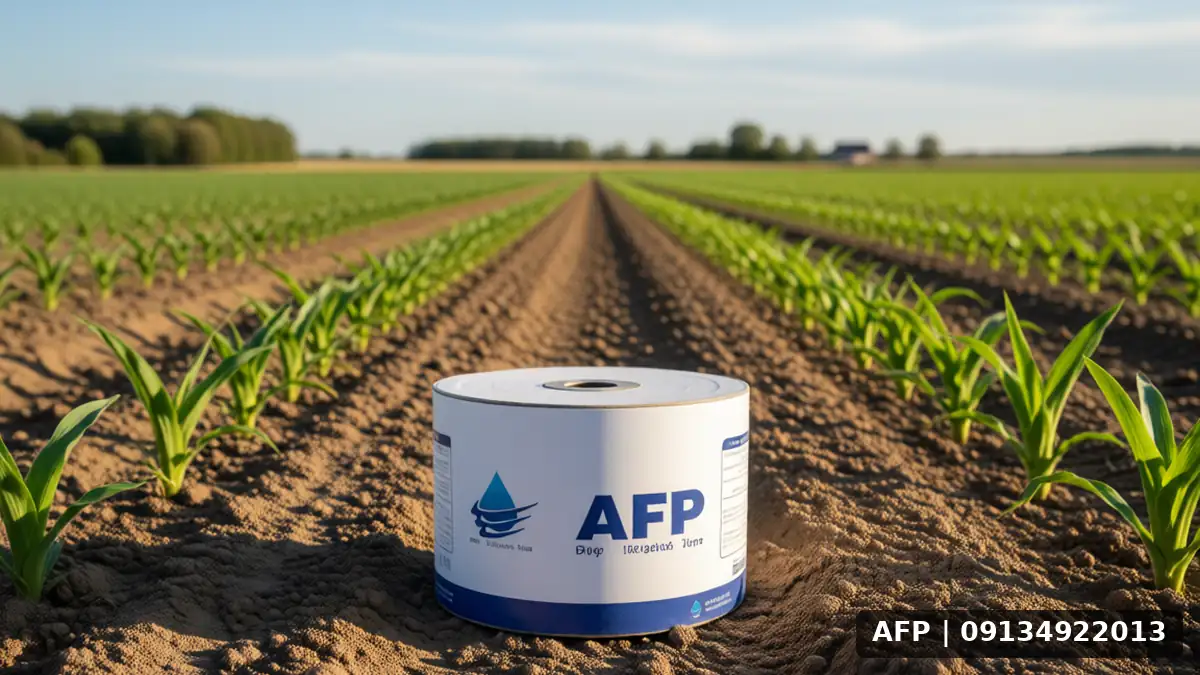
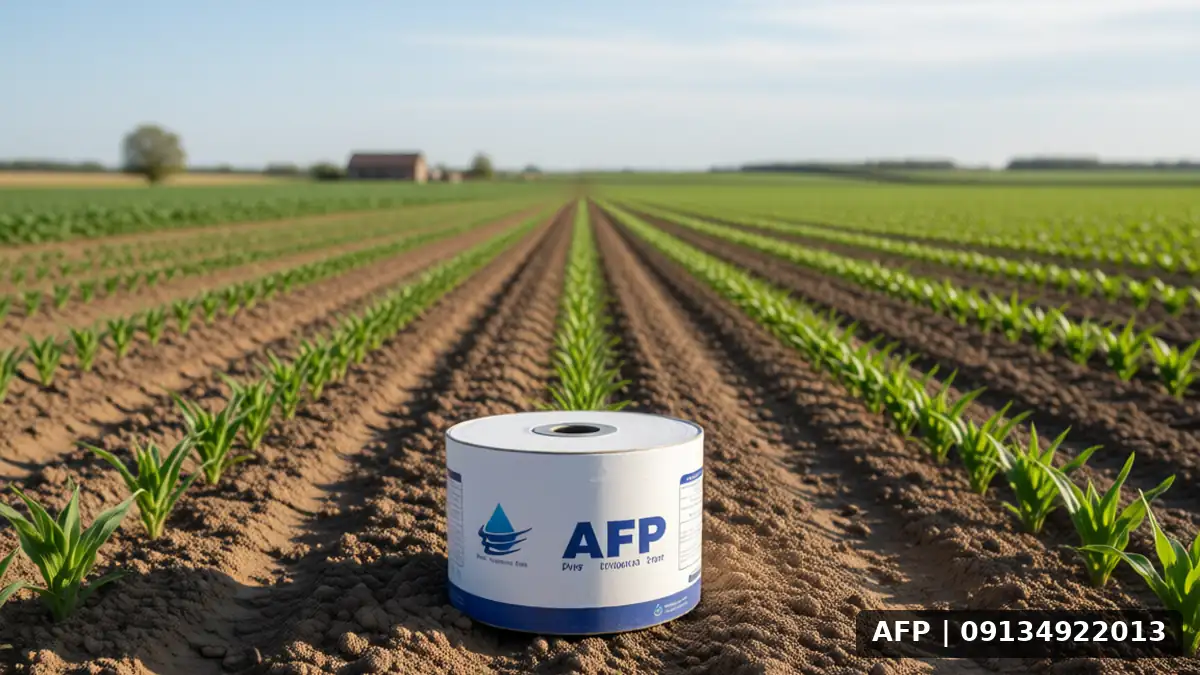
Rebuild article images under strict v10 semantic-composition policy [skip ci]

diff --git a/artifacts/article-content-queue/STATUS.md b/artifacts/article-content-queue/STATUS.md
@@ -4,7 +4,7 @@
 
 ## نمای کلی
 
-- آخرین بروزرسانی: `2026-09-26T23:01:49+00:00`
+- آخرین بروزرسانی: `2026-09-26T23:09:45+00:00`
 - وضعیت صف: **توقف موقت برای تکمیل ترجمههای عقبمانده** (`translations_pending`)
 - پیشرفت: **50 از 1148 (4.36٪)**
 - نمودار پیشرفت: `░░░░░░░░░░░░░░░░░░░░`
@@ -24,8 +24,8 @@
 - تعداد تصاویر هر مقاله: **3**
 - حداقل کلمات: **1050**
 - لینک داخلی مجاز: **4 تا ۷**
-- اندازه هر اجرا: **1 مقاله**
-- مدیر موازی: **1 مقاله / 3 تصویر همزمان**
+- اندازه هر اجرا: **2 مقاله**
+- مدیر موازی: **2 مقاله / 3 تصویر همزمان**
 - حداکثر تلاش هر مقاله: **4**
 - دسته وردپرس: **مقالهها** (`35`)
 - لینکهای داخلی شناختهشده: **682**
@@ -58,10 +58,10 @@
 
 ## وضعیت بازطراحی تصاویر
 
-- سیاست تصویر: `نامشخص`
+- سیاست تصویر: `reference-rerender-3d-v10-semantic-composition-set-reviewed`
 - بازطراحی کامل: **خیر**
 - تعداد مقالههای بررسیشده: **50**
-- خطاهای بازطراحی: **0**
+- خطاهای بازطراحی: **1**
 
 ## در حال پردازش
 
